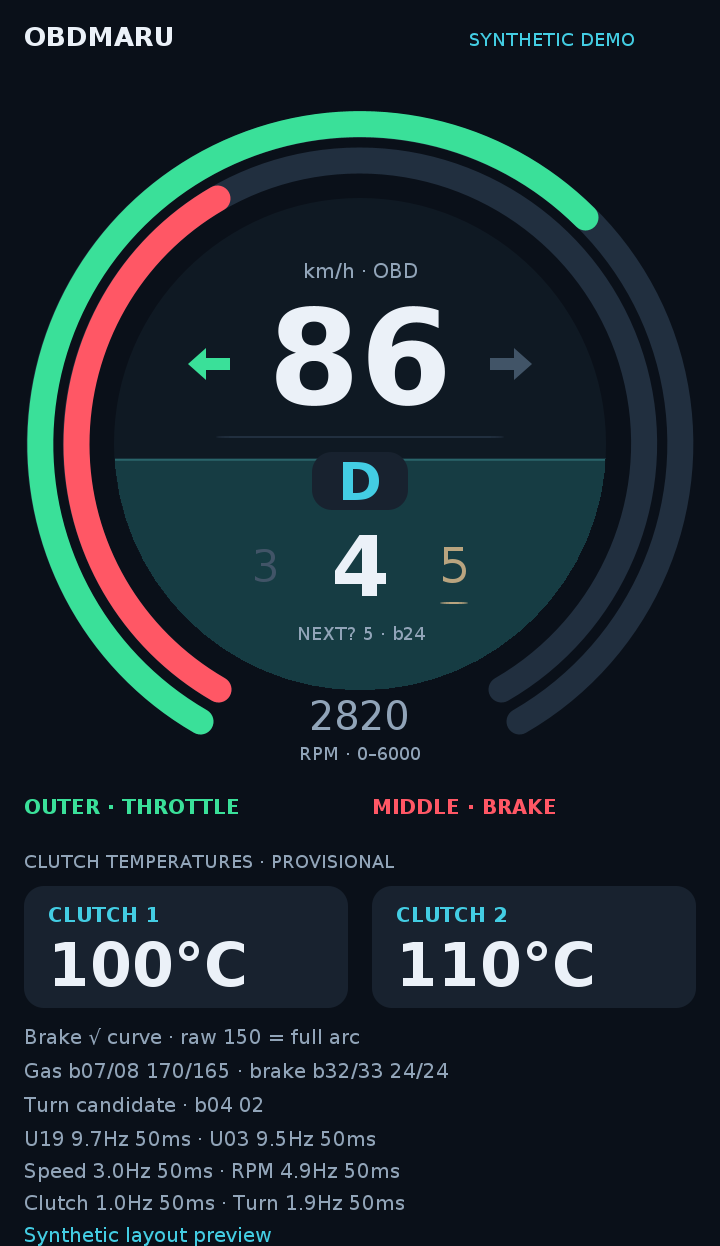
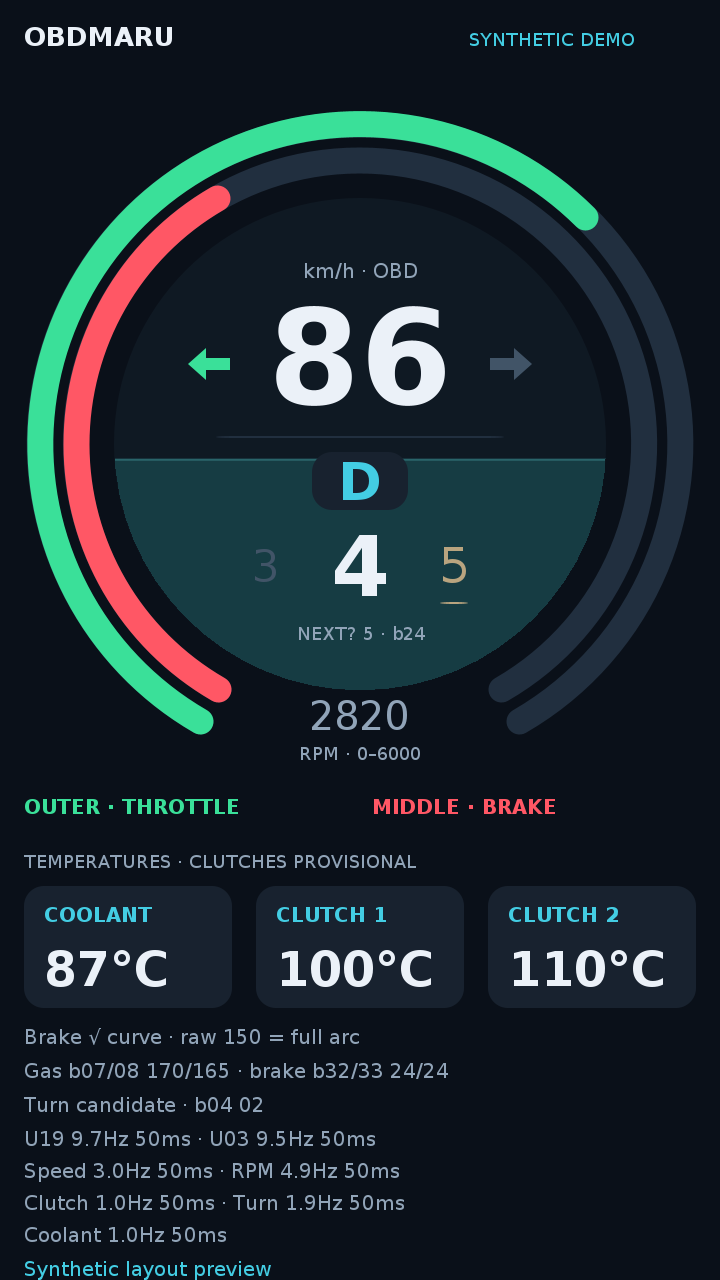
Add standard coolant temperature with one-hertz polling

diff --git a/docs/index.html b/docs/index.html
@@ -21,10 +21,10 @@
 <section class="mode"><h3>Guided · spoken sequence</h3><p>Start while parked. Spoken instructions begin automatically after connection checks. The sequence covers parked brake patterns, progressive pedal inputs, cruise at 60/70 where appropriate, and adjacent manual shifts.</p><p>The guide finishes; recording keeps running until you park and stop it.</p></section>
 </div>
 <section class="mode" style="margin-top:24px"><h2 style="margin-top:0">Dashboard · circular telemetry display</h2>
-<p>Version 0.1.9 keeps the thick throttle and brake arcs from 7 to 5 o'clock, without pedal percentage readouts, with RPM filling the whole inner circle upward behind speed and gear. The fill spans 0–6000 RPM with subdued teal color. A sliding gear sequence has a compact D/M letter badge, a larger current gear and a subtle provisional b24 highlight. Two provisional clutch temperatures and sampled indicator arrows remain visible. Polling targets remain 10 Hz pedal/gear, 3 Hz speed, 1 Hz temperature display, 5 Hz RPM and up to 2 Hz optional indicators; actual rates depend on adapter throughput. A separate app alongside Magic and Watcher, with synthetic demo and raw logs.</p>
-<a class="download" href="https://github.com/EukkMaru/OBDMaru/releases/download/dashboard-v0.1.9/OBDMaru-Dash-v0.1.9.apk">Download Dashboard APK</a>
+<p>Version 0.1.10 keeps the thick throttle and brake arcs from 7 to 5 o'clock, without pedal percentage readouts, with RPM filling the whole inner circle upward behind speed and gear. The fill spans 0–6000 RPM with subdued teal color. A sliding gear sequence has a compact D/M letter badge, a larger current gear and a subtle provisional b24 highlight. Standard coolant temperature joins the two provisional clutch readings; sampled indicator arrows remain visible. Polling targets remain 10 Hz pedal/gear, 3 Hz speed, 1 Hz coolant and clutch display, 5 Hz RPM and up to 2 Hz optional indicators; actual rates depend on adapter throughput. A separate app alongside Magic and Watcher, with synthetic demo and raw logs.</p>
+<a class="download" href="https://github.com/EukkMaru/OBDMaru/releases/download/dashboard-v0.1.10/OBDMaru-Dash-v0.1.10.apk">Download Dashboard APK</a>
 <a href="https://github.com/EukkMaru/OBDMaru/blob/main/docs/dashboard.md">Dashboard instructions and mappings</a>
-<p><img src="dashboard-circular-preview.png" alt="Circular dashboard layout with synthetic speed, D mode, current gear 4 and provisional b24 gear 5" style="width:100%;max-width:300px;border-radius:12px" loading="lazy"><br><small class="muted">Synthetic layout preview rendered from the drawing code on the host; Android font metrics may differ.</small></p>
+<p><img src="dashboard-circular-preview.png" alt="Circular dashboard layout with synthetic speed, D mode, gear sequence, standard coolant and provisional clutch temperatures" style="width:100%;max-width:300px;border-radius:12px" loading="lazy"><br><small class="muted">Synthetic layout preview rendered from the drawing code on the host; Android font metrics may differ.</small></p>
 <p class="muted">Brake uses a square-root display curve: raw 150 = 100%, with more visual response at low inputs and compression at high inputs. Larger readings remain visible numerically. Pedal and clutch interpretations are provisional. Stop other OBD apps before connecting.</p></section>
 <section class="mode" style="margin-top:24px"><h2 style="margin-top:0">New: Watcher · live unknown bytes</h2>
 <p>A separate portrait app alongside Magic. Choose one of the 20 unknown blocks and watch every byte as a 0–255 bar, decimal/hex value and ZERO/NONZERO indicator. Target 5 or 10 Hz, with the actual sample rate and freshness visible. Includes synthetic demo, bit inspection and raw log export.</p>

diff --git a/dashboard/src/test/java/dev/obdmaru/dashboard/DashboardPollingTest.kt b/dashboard/src/test/java/dev/obdmaru/dashboard/DashboardPollingTest.kt
@@ -29,7 +29,7 @@ class DashboardPollingTest {
                     val logical=command.take(if(command.startsWith("01"))4 else 6)
                     if(logical==command)time+=finalWait
                     counts[logical]=(counts[logical]?:0)+1
-                    val data=when(logical){"2201A4"->ByteArray(34).apply{this[8]=(counts[logical]!!%255).toByte();this[30]=70;this[32]=75};"22C101"->ByteArray(39);"010C"->byteArrayOf(0x1A,0xF8.toByte());"22BC08"->ByteArray(5).apply{this[4]=6};else->byteArrayOf(50)}
+                    val data=when(logical){"2201A4"->ByteArray(34).apply{this[8]=(counts[logical]!!%255).toByte();this[30]=70;this[32]=75};"22C101"->ByteArray(39);"010C"->byteArrayOf(0x1A,0xF8.toByte());"0105"->byteArrayOf(0x7F);"22BC08"->ByteArray(5).apply{this[4]=6};else->byteArrayOf(50)}
                     val prefix=("%02X".format(logical.take(2).toInt(16)+64)+logical.drop(2)).chunked(2).map{it.toInt(16)}
                     val p=prefix+data.map{it.toInt() and 255}
                     val frames=if(p.size<=7)listOf(listOf(p.size)+p)else listOf(listOf(0x10,p.size)+p.take(6))+p.drop(6).chunked(7).mapIndexed{i,b->listOf(0x20+((i+1)%16))+b}
@@ -48,9 +48,12 @@ class DashboardPollingTest {
         assertTrue(r.counts.getValue("22C101") in 57..61)
         assertTrue(r.counts.getValue("010D") in 17..19)
         assertTrue(r.counts.getValue("010C") in 28..31)
+        assertTrue(r.counts.getValue("0105") in 5..7)
         assertTrue(r.counts.getValue("22BC08") in 9..13)
         assertTrue(r.state.samples.getValue("tcm").hz in 9.5..10.5)
         assertTrue(r.state.samples.getValue("clutch").hz in 0.9..1.1)
+        assertTrue(r.state.samples.getValue("coolant").hz in 0.9..1.1)
+        assertEquals(87.0,Telemetry.coolant(r.state.samples.getValue("coolant").bytes)!!,0.001)
         val previous=r.state.samples.getValue("clutch").at
         while(r.state.samples.getValue("clutch").at==previous)r.poller.step()
         val clutch=r.state.samples.getValue("clutch")
@@ -145,6 +148,25 @@ class DashboardPollingTest {
         val r=Rig();r.run(2000)
         val first=r.commands.indexOf("010D")
         assertEquals("010C",r.commands[first+1])
+        assertEquals("0105",r.commands[first+2])
         assertTrue(r.state.samples.containsKey("rpm"));assertTrue(r.state.samples.containsKey("indicators"))
+    }
+    @Test fun coolantFailureRemovesItsSampleWithoutResettingOtherChannels(){
+        val r=Rig();r.run(1500)
+        assertTrue(r.state.samples.containsKey("coolant"))
+        r.fault={if(it.startsWith("0105"))"NO DATA\r>"else null};r.run(4000)
+        assertFalse(r.state.samples.containsKey("coolant"))
+        assertTrue(r.state.availability.getValue("coolant").startsWith("Unavailable"))
+        assertEquals(1,r.opens);assertEquals(0,r.recoveries)
+        assertTrue(r.state.samples.keys.containsAll(listOf("tcm","brake","speed","rpm","clutch")))
+        assertTrue(r.commands.count{it.startsWith("0105")}<=6)
+    }
+    @Test fun unsupportedPhysicalCoolantSharesFunctionalFallbackWithSpeedAndRpm(){
+        val r=Rig();var physical=true
+        r.fault={if(it=="ATSH7DF"){physical=false;null}else if(physical&&it.startsWith("0105"))"NO DATA\r>"else null}
+        r.run(4000)
+        assertTrue(r.commands.contains("ATSH7DF"));assertEquals(1,r.opens)
+        assertTrue(r.events.contains("dashboard_engine_fallback"))
+        assertTrue(r.state.samples.keys.containsAll(listOf("speed","rpm","coolant")))
     }
 }

diff --git a/dashboard/src/main/java/dev/obdmaru/dashboard/DashboardService.kt b/dashboard/src/main/java/dev/obdmaru/dashboard/DashboardService.kt
@@ -38,15 +38,16 @@ class DashboardService : Service() {
         var attempt = 0
         try {
             if (!demo) lease = ObdConnectionGuard.acquire(this)
-            log = SessionLog(this,address,"Dashboard",demo,"dashboard-0.1.9");lastFile=log.file
+            log = SessionLog(this,address,"Dashboard",demo,"dashboard-0.1.10");lastFile=log.file
             val session = log
             log.event("obd_connection_guard", "exclusive" to !demo, "demo" to demo)
             log.event("dashboard_start","tcm_target_hz" to 10,"brake_target_hz" to 10,"speed_target_hz" to 3,"clutch_display_hz" to 1,
                 "rpm_target_hz" to 5, "indicators_target_hz" to 2, "indicators_candidate" to true,
+                "coolant_target_hz" to 1, "coolant_stale_ms" to 2500,
                 "display_layout" to "circular_level_gear_strip", "rpm_fill_reference" to 6000,
                 "rpm_fill_mapping" to "linear_vertical_level",
                 "brake_display_curve" to "square_root", "brake_raw_reference" to 150, "brake_display_exponent" to 0.5,
-                "mapping" to "U19 b08 pedal /254; U03 b32 brake display sqrt(raw/150)*100; U19 low nibble b23 gear; U19 b29:31 and b31:33 BE *2-40 provisional temperatures; standard 010D speed; standard 010C RPM /4; indicator candidate 770/22BC08 b04 masks 02 left,04 right")
+                "mapping" to "U19 b08 pedal /254; U03 b32 brake display sqrt(raw/150)*100; U19 low nibble b23 gear; U19 b29:31 and b31:33 BE *2-40 provisional temperatures; standard 010D speed; standard 010C RPM /4; standard 0105 coolant A-40 Celsius; indicator candidate 770/22BC08 b04 masks 02 left,04 right")
             poller = DashboardPolling(
                 open = {
                     if(demo) demoLink(session) else {
@@ -80,7 +81,7 @@ class DashboardService : Service() {
             if(command.startsWith("AT"))return if(command=="ATZ")"ELM327 DEMO\r>"else "OK\r>"
             Thread.sleep(35)
             val logical=command.take(if(command.startsWith("01"))4 else 6)
-            val key=when(logical){"2201A4"->"tcm";"22C101"->"brake";"010C"->"rpm";"22BC08"->"indicators";else->"speed"}
+            val key=when(logical){"2201A4"->"tcm";"22C101"->"brake";"010C"->"rpm";"0105"->"coolant";"22BC08"->"indicators";else->"speed"}
             val bytes=demoBytes(key,SystemClock.elapsedRealtime())
             log.event("dashboard_demo_sample","channel" to key,"bytes" to org.json.JSONArray(bytes.map{it.toInt() and 255}))
             val prefix=("%02X".format(logical.take(2).toInt(16)+64)+logical.drop(2)).chunked(2).map{it.toInt(16)}
@@ -108,6 +109,7 @@ class DashboardService : Service() {
             }
             "brake"->ByteArray(39).apply {this[32]=(brake*168).toInt().toByte();this[33]=(brake*162).toInt().toByte()}
             "rpm"->{val raw=((850+gas*2700)*4).toInt();byteArrayOf((raw shr 8).toByte(),raw.toByte())}
+            "coolant"->byteArrayOf((87+sin(phase*.04)*4+40).toInt().toByte())
             "indicators"->ByteArray(5).apply{this[4]=if(now/500%2==0L)when(now/4000%3){0L->2;1L->4;else->6}else 0}
             else->byteArrayOf((45+35*sin(phase*.2)).toInt().toByte())
         }

diff --git a/dashboard/src/main/java/dev/obdmaru/dashboard/DashboardPolling.kt b/dashboard/src/main/java/dev/obdmaru/dashboard/DashboardPolling.kt
@@ -20,7 +20,8 @@ class DashboardPolling(
     private val demo: Boolean = false
 ) : Closeable {
     private data class Task(val key: String,var header: String,val command: String,val interval: Long,val size: Int,var due: Long=0,var failures: Int=0,val hint: ReplyHint=ReplyHint(),val optional:Boolean=false)
-    private val tasks = listOf(Task("tcm","7E1","2201A4",100,34), Task("brake","7D1","22C101",100,34), Task("speed","7E0","010D",333,1), Task("rpm","7E0","010C",200,2), Task("indicators","770","22BC08",500,5,optional=true))
+    private val engineChannels = setOf("speed","rpm","coolant")
+    private val tasks = listOf(Task("tcm","7E1","2201A4",100,34), Task("brake","7D1","22C101",100,34), Task("speed","7E0","010D",333,1), Task("rpm","7E0","010C",200,2), Task("coolant","7E0","0105",1000,1), Task("indicators","770","22BC08",500,5,optional=true))
     private val availability = mutableMapOf<String,String>()
     private val samples = mutableMapOf<String,Sample>()
     private val times = mutableMapOf<String,ArrayDeque<Long>>()
@@ -62,8 +63,11 @@ class DashboardPolling(
         val core=ready.filterNot{it.optional}
         val candidate=ready.firstOrNull{it.optional}
         // Optional body reads wait until motion streams have initial data, and never displace badly overdue core work.
-        val primaryReady=listOf("tcm","brake","speed","rpm").all{samples.containsKey(it) || availability.containsKey(it)}
-        val enginePair=if(lastChannel=="speed")core.firstOrNull{it.key=="rpm" && it.header==header}else null
+        val primaryReady=listOf("tcm","brake","speed","rpm","coolant").all{samples.containsKey(it) || availability.containsKey(it)}
+        // A bounded speed -> RPM -> coolant group can reuse the engine header.
+        val enginePair=if(lastChannel=="speed" || lastChannel=="rpm")core.firstOrNull{
+            it.key in engineChannels && it.key!="speed" && it.key!=lastChannel && it.header==header
+        }else null
         val task=core.firstOrNull{it.key=="speed" && lastChannel!="speed"}
             ?: enginePair
             ?: candidate?.takeIf{primaryReady && (core.isEmpty() || (core.all{start-it.due<100} && start-it.due>=500))}
@@ -113,8 +117,8 @@ class DashboardPolling(
         }
     }
     private fun fallbackEngine(task:Task,reason:String) {
-        if(task.key in listOf("speed","rpm") && task.header=="7E0") {
-            tasks.filter{it.key in listOf("speed","rpm")}.forEach{it.header="7DF";it.hint.reset()}
+        if(task.key in engineChannels && task.header=="7E0") {
+            tasks.filter{it.key in engineChannels}.forEach{it.header="7DF";it.hint.reset()}
             event(if(task.key=="speed")"dashboard_speed_fallback"else "dashboard_engine_fallback",mapOf("channel" to task.key,"from" to "7E0","to" to "7DF","reason" to reason))
         }
     }

diff --git a/dashboard/src/main/java/dev/obdmaru/dashboard/DashView.kt b/dashboard/src/main/java/dev/obdmaru/dashboard/DashView.kt
@@ -135,7 +135,7 @@ class DashView(context: Context) : View(context) {
     }
 
     override fun onDraw(c: Canvas) {
-        val scale = minOf(width / 360f, height / 623f)
+        val scale = minOf(width / 360f, height / 640f)
         c.save()
         c.translate((width - 360 * scale) / 2, 0f)
         c.scale(scale, scale)
@@ -146,6 +146,7 @@ class DashView(context: Context) : View(context) {
         }
         val ts = sample("tcm"); val bs = sample("brake"); val ss = sample("speed")
         val rs = sample("rpm"); val ins = sample("indicators"); val cs = sample("clutch", 2500)
+        val coolantSample = sample("coolant", 2500)
         val t = ts?.let { Telemetry.transmission(it.bytes) }
         val brake = bs?.let { Telemetry.brake(it.bytes) }
         val clutch = cs?.let { Telemetry.transmission(it.bytes) }
@@ -176,14 +177,15 @@ class DashView(context: Context) : View(context) {
 
         text(c, "OUTER · THROTTLE", 12f, 407f, 10f, green, true)
         text(c, "MIDDLE · BRAKE", 186f, 407f, 10f, red, true)
-        text(c, "CLUTCH TEMPERATURES · PROVISIONAL", 12f, 434f, 9f, muted)
+        text(c, "TEMPERATURES · CLUTCHES PROVISIONAL", 12f, 434f, 9f, muted)
         fun temperature(x: Float, label: String, value: Double?) {
-            box(c, x, 443f, 162f, 61f, panel)
-            text(c, label, x + 12, 461f, 10f, cyan, true)
-            text(c, number(value) + if (value == null) "" else "°C", x + 12, 493f, 30f, white, true)
+            box(c, x, 443f, 104f, 61f, panel)
+            text(c, label, x + 10, 461f, 10f, cyan, true)
+            text(c, number(value) + if (value == null) "" else "°C", x + 10, 493f, 24f, white, true)
         }
-        temperature(12f, "CLUTCH 1", clutch?.clutch1)
-        temperature(186f, "CLUTCH 2", clutch?.clutch2)
+        temperature(12f, "COOLANT", coolantSample?.let { Telemetry.coolant(it.bytes) })
+        temperature(128f, "CLUTCH 1", clutch?.clutch1)
+        temperature(244f, "CLUTCH 2", clutch?.clutch2)
         text(c, "Brake √ curve · raw 150 = full arc", 12f, 522f, 10f, muted)
         text(c, "Gas b07/08 ${t?.rawGas7 ?: "—"}/${t?.rawGas8 ?: "—"} · brake b32/33 ${brake?.raw32 ?: "—"}/${brake?.raw33 ?: "—"}",
             12f, 539f, 10f, muted)
@@ -194,7 +196,8 @@ class DashView(context: Context) : View(context) {
         text(c, stat("U19", ts) + " · " + stat("U03", bs), 12f, 573f, 10f, muted)
         text(c, stat("Speed", ss) + " · " + stat("RPM", rs), 12f, 589f, 10f, muted)
         text(c, stat("Clutch", cs) + " · " + stat("Turn", ins), 12f, 605f, 10f, muted)
-        text(c, state.status.take(55), 12f, 621f, 10f, cyan)
+        text(c, stat("Coolant", coolantSample), 12f, 621f, 10f, muted)
+        text(c, state.status.take(55), 12f, 638f, 10f, cyan)
         c.restore()
     }
 }

diff --git a/dashboard/src/androidTest/java/dev/obdmaru/dashboard/DashboardSmokeTest.kt b/dashboard/src/androidTest/java/dev/obdmaru/dashboard/DashboardSmokeTest.kt
@@ -11,11 +11,12 @@ class DashboardSmokeTest {
   InstrumentationRegistry.getInstrumentation().uiAutomation.grantRuntimePermission(ctx.packageName, android.Manifest.permission.BLUETOOTH_CONNECT)
   ctx.startForegroundService(Intent(ctx,DashboardService::class.java).putExtra("demo",true))
   try {
-   await{DashboardService.state.samples.size==6 && DashboardService.state.samples["tcm"]!!.hz>7 && DashboardService.state.samples["speed"]!!.hz>2 && DashboardService.state.samples["clutch"]!!.hz>0.5}
+   await{DashboardService.state.samples.size==7 && DashboardService.state.samples["tcm"]!!.hz>7 && DashboardService.state.samples["speed"]!!.hz>2 && DashboardService.state.samples["clutch"]!!.hz>0.5 && DashboardService.state.samples["coolant"]!!.hz>0.5}
    val state=DashboardService.state;assertTrue(state.demo)
    val t=Telemetry.transmission(state.samples["tcm"]!!.bytes)
    assertNotNull(t.clutch1);assertNotNull(t.clutch2);assertNotNull(t.gas)
    assertNotNull(Telemetry.rpm(state.samples["rpm"]!!.bytes))
+   assertTrue(Telemetry.coolant(state.samples["coolant"]!!.bytes)!! in 80.0..95.0)
    assertNotNull(Telemetry.indicators(state.samples["indicators"]!!.bytes))
    assertNotNull(Telemetry.brake(state.samples["brake"]!!.bytes).percent)
    assertTrue(Telemetry.u(state.samples["speed"]!!.bytes,0)!! in 0..100)
@@ -23,7 +24,7 @@ class DashboardSmokeTest {
   assertTrue(DashboardService.state.samples.isEmpty())
   val file=DashboardService.lastFile!!
   val log=ctx.contentResolver.openInputStream(Uri.parse("content://dev.obdmaru.dashboard.logs/${file.name}"))!!.bufferedReader().use{it.readText()}
-  assertTrue(log.contains("dashboard_demo_sample"));assertTrue(log.contains("dashboard-0.1.9"))
+  assertTrue(log.contains("dashboard_demo_sample"));assertTrue(log.contains("dashboard-0.1.10"))
  }
  private fun await(test:()->Boolean){val end=SystemClock.elapsedRealtime()+12000;while(!test()&&SystemClock.elapsedRealtime()<end)Thread.sleep(50);assertTrue("Timed out",test())}
 }

diff --git a/dashboard/src/test/java/dev/obdmaru/dashboard/TelemetryTest.kt b/dashboard/src/test/java/dev/obdmaru/dashboard/TelemetryTest.kt
@@ -43,6 +43,13 @@ class TelemetryTest {
   assertEquals(16383.75,Telemetry.rpm(byteArrayOf(-1,-1))!!,0.001)
   assertNull(Telemetry.rpm(byteArrayOf(1)))
  }
+ @Test fun standardCoolantUsesUnsignedByteMinusFortyAndMissingIsNotZero() {
+  assertEquals(64.0,Telemetry.coolant(byteArrayOf(0x68))!!,0.001)
+  assertEquals(87.0,Telemetry.coolant(byteArrayOf(0x7F))!!,0.001)
+  assertEquals(-40.0,Telemetry.coolant(byteArrayOf(0))!!,0.001)
+  assertEquals(215.0,Telemetry.coolant(byteArrayOf(-1))!!,0.001)
+  assertNull(Telemetry.coolant(byteArrayOf()))
+ }
  @Test fun indicatorDefinitionUsesMsbOffsetsAndKeepsUnavailableSeparateFromOff() {
   fun lights(raw:Int)=Telemetry.indicators(ByteArray(5).apply{this[4]=raw.toByte()})!!
   assertFalse(lights(0).left);assertFalse(lights(0).right)

diff --git a/dashboard/src/main/java/dev/obdmaru/dashboard/Telemetry.kt b/dashboard/src/main/java/dev/obdmaru/dashboard/Telemetry.kt
@@ -16,6 +16,7 @@ object Telemetry {
         val a=u(bytes,0)?:return null;val b=u(bytes,1)?:return null
         return (a*256+b)/4.0
     }
+    fun coolant(bytes: ByteArray): Double? = u(bytes,0)?.let { it - 40.0 }
     // OBDb indexes bits from MSB: bix37/38 are b04 masks 0x04/0x02.
     fun indicators(bytes: ByteArray): Indicators? = u(bytes,4)?.let { Indicators(it and 2 != 0,it and 4 != 0,it) }
     fun brake(bytes: ByteArray) = Brake(u(bytes,32)?.let { sqrt(it / 150.0) * 100.0 },u(bytes,32),u(bytes,33))

diff --git a/docs/dashboard.md b/docs/dashboard.md
@@ -1,4 +1,4 @@
-# OBDMaru Dash 0.1.9
+# OBDMaru Dash 0.1.10
 
 A portrait circular telemetry display, installed separately as `dev.obdmaru.dashboard` alongside Magic and Watcher. No cruise interpretation is included.
 
@@ -10,6 +10,7 @@ Install the Dashboard APK, grant Nearby devices and notification permissions, an
 
 | Display | Mapping | Status |
 | --- | --- | --- |
+| Coolant | Standard `0105`: unsigned data byte A −40 °C | Standardized definition; 1 Hz target, 2.5-second freshness limit. Missing/stale replies show —. |
 | Engine RPM | Standard `010C`: `(256*A+B)/4` RPM | Canonical standardized engine-speed signal; unsigned bytes, unavailable on missing/short replies. |
 | Turn indicators | Candidate `770/22BC08` b04: left mask `0x02`, right mask `0x04` | Community definition; not yet validated on this vehicle. Sampled state only, no synthetic blink animation. |
 | Speed | Standard `010D`, data byte 0 in km/h | Standard definition; not calibrated to dashboard or GPS. No guessed U19 speed byte. |
@@ -25,7 +26,7 @@ All b-indices are zero-based after removing response service/identifier. Clutch 
 
 ## Timing and logs
 
-The serial scheduler targets U19 and U03 every 100 ms (10 Hz each), with standard speed every 333 ms (approximately 3 Hz). U19 includes throttle, gear **and** clutch temperatures in one ECU reply: the clutch display is updated from that stream only once per second, with no extra temperature request. Header switches and adapter/ECU response times reduce achieved rates. These are targets, not guaranteed bandwidth. On-screen per-channel Hz and sample ages show actual performance; no catch-up bursts or interpolation conceal sparse input. U19/U03/speed expire after 1.5 seconds; the 1 Hz clutch sample expires after 2.5 seconds. Fixed protocol: CAN 11-bit 500 kbit/s, as in the earlier real capture. Standard speed first uses physical engine address `7E0`; rejection, short payload or timeout switches that channel to functional `7DF`.
+The serial scheduler targets U19/U03 at 10 Hz each, standard speed at 3 Hz, RPM at 5 Hz, coolant at 1 Hz and optional indicators at up to 2 Hz. U19 already contains throttle, gear and the provisional clutch temperatures; clutch display samples that stream at 1 Hz without another request. Header switches and adapter/ECU response times reduce achieved rates. On-screen per-channel Hz and sample ages show actual performance; no catch-up bursts conceal sparse input. Motion and indicator readings expire after 1.5 seconds; coolant and clutch after 2.5 seconds. Fixed protocol: CAN 11-bit 500 kbit/s. Speed, RPM and coolant initially use engine address `7E0`; failure of one switches all three to functional `7DF`. Due speed/RPM/coolant requests can share the same header in a bounded group.
 
 Failed, rejected or short replies remove only the affected sample (a U19 failure also clears its clutch display) and back off that channel for 1–5 seconds while others continue. A query/header I/O failure first attempts an adapter resync over the existing Bluetooth socket: send a carriage return to abort, drain through an ELM prompt plus a quiet boundary, then require a fresh recognizable `ATI` identity reply. A late diagnostic prompt alone is not sufficient. If resync fails, close the socket and retry Bluetooth after two seconds, alternating secure/insecure SPP and reapplying settings. Successful reconnections avoid repeated `ATZ` reboots; optional `ATPC` rejection is tolerated. Existing samples retain their original timestamps and age out, rather than being relabeled as fresh. The status and raw logs identify the failed stage and recovery path.
 
@@ -37,7 +38,7 @@ Exact real TX/RX and request outcomes are recorded through the shared transport.
 
 ## Build and verification
 
-Build with `./gradlew :dashboard:assembleDebug`. JVM tests cover unsigned raw data, pedal endpoints, brake overflow, gear nibble masking, two-byte temperature conversion, short payloads and freshness. The Android instrumentation test exercises all three synthetic streams and completed-log export. Emulator tests do not establish actual Bluetooth throughput or physical signal calibration. Android 12+, experimental debug-signed APK.
+Build with `./gradlew :dashboard:assembleDebug`. JVM tests cover unsigned raw data, pedal endpoints, brake overflow, gear nibble masking, two-byte temperature conversion, short payloads and freshness. The Android instrumentation test exercises all current synthetic channels and completed-log export. Emulator tests do not establish actual Bluetooth throughput or physical signal calibration. Android 12+, experimental debug-signed APK.
 
 Version 0.1.1: nine JVM tests cover decoding, target rates, the independent 1 Hz clutch display, rejected reads, timeout resync, broken-socket reconnect, header failure, and setup retry. Existing recorder and Watcher JVM tests are also run. This update is verified with a simulated adapter; no real-vehicle disconnect/reconnect reproduction has been performed. The Android smoke test is updated, but was not rerun on an emulator for this update.
 
@@ -53,11 +54,11 @@ Seventeen Dashboard JVM tests now cover the above behavior, including slow-link 
 
 ## Exclusive connection guard
 
-This version shares a process-lifetime OS socket-name lock with Magic 2.0.2, Watcher 0.1.1 and Dash 0.1.9. Update every installed OBDMaru peer; older builds cause a clear update-required message before Bluetooth connects. While one real session owns the lock, another app names that owner and stops its start attempt. The lock remains held during reconnects and is released after closing Bluetooth, or automatically if the process dies. Demo sessions do not connect and bypass the lock. Arbitrary third-party apps are not controllable or reliably detectable; stop them manually.
+This version shares a process-lifetime OS socket-name lock with Magic 2.0.2, Watcher 0.1.1 and Dash 0.1.10. Update every installed OBDMaru peer; older builds cause a clear update-required message before Bluetooth connects. While one real session owns the lock, another app names that owner and stops its start attempt. The lock remains held during reconnects and is released after closing Bluetooth, or automatically if the process dies. Demo sessions do not connect and bypass the lock. Arbitrary third-party apps are not controllable or reliably detectable; stop them manually.
 
 ## Version 0.1.4 brake response
 
-Brake display uses `100 * sqrt(raw_b32 / 150.0)`: raw 0→0%, 6→20%, 24→40%, 54→60%, 96→80%, 150→100%. The slope is steep near release and progressively flatter as input rises. Raw b32/b33 remain separate and unchanged. Values above raw150 remain above100 numerically; only the bar fill clips at100. This is a user-selected display curve, not a physical percentage, pressure conversion, deceleration or grip estimate. No automatic recalibration changes the reference between sessions. Session metadata records the curve, exponent and raw reference.
+Brake display uses `100 * sqrt(raw_b32 / 150.0)`: raw 0→0%, 6→20%, 24→40%, 54→60%, 96→80%, 150→100%. The slope is steep near release and progressively flatter as input rises. Raw b32/b33 remain separate and unchanged. Values above raw150 remain above100 numerically; only the bar fill clips at 100. This is a user-selected display curve, not a physical percentage, pressure conversion, deceleration or grip estimate. No automatic recalibration changes the reference between sessions. Session metadata records the curve, exponent and raw reference.
 
 Dashboard JVM tests cover the low/high response relationship, exact calibration landmarks, monotonicity, zero, overflow and untouched raw bytes. No emulator or vehicle check performed for this display-only update.
 
@@ -67,9 +68,9 @@ Standard engine RPM (`010C`) targets 5 Hz, sharing physical engine address `7E0`
 
 The [OBDb Tucson indicator candidate](https://github.com/OBDb/Hyundai-Tucson/blob/b1306dc2c54e32ba4344fcbb5fd098ef66db50e7/signalsets/v3/default.json#L59-L63) requests `770/22BC08` with expected response `778`. Source bit offsets37/38 are MSB-indexed: data byte4 bit2 (`0x04`) right and bit1 (`0x02`) left. Both bits set lights both arrows, without asserting a separate hazard-switch state. The raw b04 hex value remains visible for validation. This request was not in the original real capture and remains unverified on the user's car.
 
-Indicator probes begin after the first main telemetry attempts, target2 Hz when core jobs are not badly overdue, and back off30–120 seconds on no-data/rejection. Indicator I/O timeout is capped at1.2 seconds before normal adapter recovery; a rejected reply does not reconnect Bluetooth or reset motion samples. This optional job can run below2 Hz under saturation. There is no invented blink animation or assumption that a lever rather than lamp phase is reported. Polling may miss flashing transitions. Missing/stale replies display question-mark arrows and unavailable status, distinct from two reported-off bits.
+Indicator probes begin after the first main telemetry attempts, target2 Hz when core jobs are not badly overdue, and back off30–120 seconds on no-data/rejection. Indicator I/O timeout is capped at 1.2 seconds before normal adapter recovery; a rejected reply does not reconnect Bluetooth or reset motion samples. This optional job can run below2 Hz under saturation. There is no invented blink animation or assumption that a lever rather than lamp phase is reported. Polling may miss flashing transitions. Missing/stale replies display question-mark arrows and unavailable status, distinct from two reported-off bits.
 
-Current requested data rates total about30 requests/s (U19 10, U03 10, speed3, RPM5, indicators up to2), plus ECU-address commands; actual rates depend on shared adapter throughput. Clutch display still uses existing U19 replies at1 Hz. All per-channel measured rates remain on the portrait screen.
+Current requested data rates total about30 requests/s (U19 10, U03 10, speed3, RPM5, indicators up to 2), plus ECU-address commands; actual rates depend on shared adapter throughput. Clutch display still uses existing U19 replies at 1 Hz. All per-channel measured rates remain on the portrait screen.
 
 Twenty-six Dashboard/shared JVM tests cover RPM byte order/scaling, indicator masks and unknown/off distinction, 5 Hz RPM scheduling, same-header engine grouping and indicator failure backoff. APK/test-APK compilation and lint pass. No emulator or vehicle validation was performed for this update.
 
@@ -100,3 +101,11 @@ The mode badge now shows only D, M, P, R or N (— when unknown). Removed the re
 ## Version 0.1.9 pedal arcs without percentage readouts
 
 Removed the throttle/brake percentage numbers and their cards. Compact color legends identify the two pedal arcs. The clutch readouts and diagnostics move up to use the space. Raw b07/b08 and b32/b33 remain in diagnostics and logs; the brake curve and arc clipping are unchanged. No extra temperature channels were added in this display update.
+
+## Version 0.1.10 standard coolant temperature
+
+A new COOLANT card joins CLUTCH 1/2 in the temperature row. It uses standard PID `0105`, unsigned byte A minus 40 °C, and targets 1 Hz. The 2.5-second freshness limit, missing reply handling and per-channel measured rate prevent an old value or a missing reply from becoming a live zero. The clutch mappings remain provisional and are labeled separately from standard coolant. No guessed warning thresholds or overheat alarms were added.
+
+Coolant is polled using the same engine address as speed and RPM, reusing that header when due. A failed coolant response removes only its own sample and backs off normally; other channels continue. Speed/RPM/coolant share functional-address fallback from 7E0 to 7DF. Current data request targets total about 31/s before header commands. These remain targets, not guaranteed rates. Raw TX/RX, timings, coolant target/freshness and decoding metadata are recorded. Synthetic demo supplies an independent coolant value.
+
+Validation: all 29 Dashboard/shared JVM tests pass, covering unsigned coolant scaling, missing data, 1 Hz scheduling, same-header grouping, coolant failure isolation and functional fallback, alongside existing regressions. APK/test-APK compilation and lint pass. Synthetic host layouts include coolant, missing values and full encoded temperature extremes; no emulator or vehicle validation was performed.

diff --git a/README.md b/README.md
@@ -69,7 +69,7 @@ A separately installable portrait raw-byte monitor for the 20 observed unknown b
 
 ## Dashboard app
 
-[OBDMaru Dash](docs/dashboard.md) is a separate portrait display with throttle/brake arcs around an RPM circle that fills upward, numeric OBD speed, a sliding gear strip, prominent D/M mode, subtle provisional b24 highlighting, sampled indicators and clutch temperatures. Includes synthetic demo, sample freshness and raw logs. Build with `./gradlew :dashboard:assembleDebug`.
+[OBDMaru Dash](docs/dashboard.md) is a separate portrait display with throttle/brake arcs around an RPM circle that fills upward, numeric OBD speed, a sliding gear strip, prominent D/M mode, subtle provisional b24 highlighting, sampled indicators, standard coolant and provisional clutch temperatures. Includes synthetic demo, sample freshness and raw logs. Build with `./gradlew :dashboard:assembleDebug`.
 
 ## Magic 2.0.1: continuous control instructions
 
